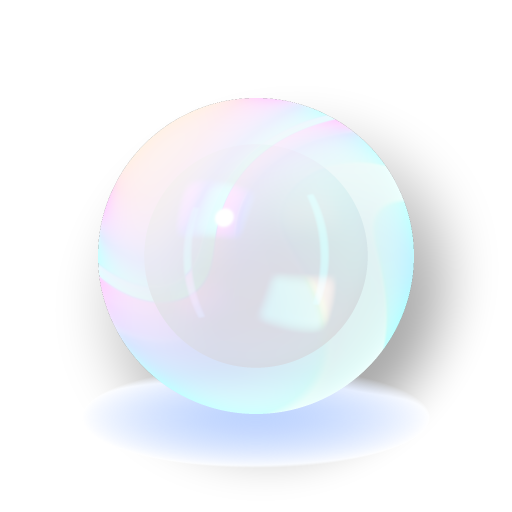
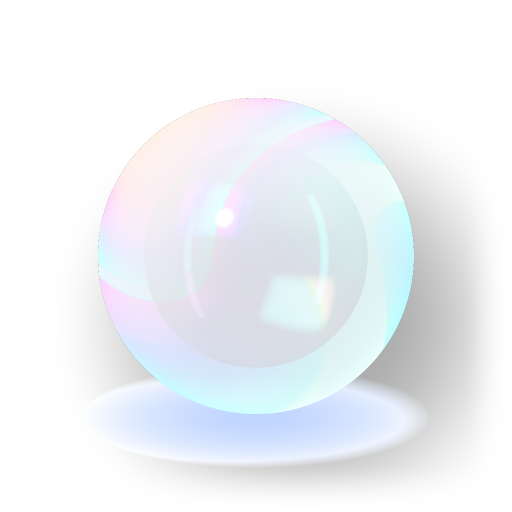
The mark is v20 to the pixel, larger, without the hairline
The owner: literally v20, bigger, no grey line. The mark is the tile with the page
for a face and no edge: the same bubble, shadow and glow everywhere, the top bar
too; the tile's edge would cut the shadow, so it fades over the last stretch of the
box instead. The ball takes the size named, the shadow and glow draw round it over
the page. The shadow switch and the plain stills go.

From the review: a theme switch repaints the canvas (a MutationObserver on the
html class), so a still mark never keeps the other theme's colours; a mark under
64 px no longer keeps the frame loop alive by itself, so the top bar's does not
run a shader on every page; the home-screen icon is opaque and square, as the phone
wants it; the face uses the shadow and glow functions rather than a second copy.

Changed region(s): [[0.4688, 0.5938, 0.9375, 0.9375]]

diff --git a/src/components/app/orb-glass.tsx b/src/components/app/orb-glass.tsx
@@ -21,10 +21,8 @@ type OrbGlassProps = {
     material: OrbGlassMaterial;
     /** What the orb sits on, which it mirrors in its lower half; the page's own theme by default. */
     surface?: "light" | "dark";
-    /** For a scene material: the mark, the scene with no tile, on the page. */
+    /** For a scene material: the mark, the tile with the page for a face and no edge. */
     mark?: boolean;
-    /** For the mark: without it, no shadow and no glow round the ball. */
-    shadow?: boolean;
     className?: string;
     style?: CSSProperties;
     /** A name makes it an image; without one it is decoration and a screen reader skips it. */
@@ -41,7 +39,6 @@ type Instance = {
     material: OrbGlassMaterial;
     surface?: "light" | "dark";
     mark: boolean;
-    shadow: boolean;
     inView: boolean;
     tilt: [number, number];
     goal: [number, number];
@@ -82,12 +79,11 @@ class Studio {
         gl.linkProgram(program);
         gl.useProgram(program);
         this.uniforms = Object.fromEntries(
-            ["uRes", "uMat", "uFloor", "uFloorMix", "uTilt", "uTime", "uFill", "uDark", "uScene", "uShadow"].map((name) => [
-                name,
-                gl.getUniformLocation(program, name),
-            ]),
+            ["uRes", "uMat", "uFloor", "uFloorMix", "uTilt", "uTime", "uFill", "uDark", "uScene"].map((name) => [name, gl.getUniformLocation(program, name)]),
         );
         window.addEventListener("pointermove", this.onPointer, { passive: true });
+        // A theme switch repaints, so a still mark never keeps the other theme's colours on a page that changed.
+        new MutationObserver(() => this.schedule()).observe(document.documentElement, { attributes: true, attributeFilter: ["class"] });
         document.addEventListener("visibilitychange", this.onVisibility);
         const media = matchMedia(REDUCED_MOTION);
         const update = () => {
@@ -164,8 +160,10 @@ class Studio {
             this.paint(it, (it.surface ?? (dark ? "dark" : "light")) === "dark");
         }
 
-        // A film flows on its own; glass only moves when the lights do.
-        const flowing = this.moving && [...this.instances].some((it) => it.inView && ORB_GLASS_FLOWS[orbGlassFamily(it.material)]);
+        // A film flows on its own; glass only moves when the lights do. A small mark (the top bar's)
+        // does not keep the loop alive by itself: at that size the flow is not seen, and the loop would
+        // run on every page for it. It still repaints whenever something else draws.
+        const flowing = this.moving && [...this.instances].some((it) => it.inView && it.size >= 64 && ORB_GLASS_FLOWS[orbGlassFamily(it.material)]);
         if ((flowing || settling) && !document.hidden) this.frame = requestAnimationFrame(this.draw);
     };
 
@@ -190,7 +188,6 @@ class Studio {
         gl.uniform1f(u.uFill, ORB_GLASS_FILL);
         gl.uniform1f(u.uDark, dark ? 1 : 0);
         gl.uniform1f(u.uScene, orbGlassIsScene(it.material) ? (it.mark ? 2 : 1) : 0);
-        gl.uniform1f(u.uShadow, it.shadow ? 1 : 0);
         gl.drawArrays(gl.TRIANGLES, 0, 3);
         it.context.imageSmoothingQuality = "high";
         it.context.clearRect(0, 0, px, px);
@@ -201,7 +198,7 @@ class Studio {
 // A glass orb, live. The GPU draws it (one shared context, see Studio), the lights lean toward the
 // pointer, and a bubble's film flows; both stop under reduced motion, out of view and in a hidden
 // tab. Where there is no WebGL2 the canvas stays blank and, if it has a name, still says it.
-export function OrbGlass({ size, material, surface, mark = false, shadow = true, className, style, label }: OrbGlassProps) {
+export function OrbGlass({ size, material, surface, mark = false, className, style, label }: OrbGlassProps) {
     const canvasRef = useRef<HTMLCanvasElement>(null);
 
     useEffect(() => {
@@ -209,7 +206,7 @@ export function OrbGlass({ size, material, surface, mark = false, shadow = true,
         const context = canvas?.getContext("2d");
         const studio = Studio.get();
         if (!canvas || !context || !studio) return;
-        const instance: Instance = { canvas, context, size, material, surface, mark, shadow, inView: false, tilt: [0, 0], goal: [0, 0] };
+        const instance: Instance = { canvas, context, size, material, surface, mark, inView: false, tilt: [0, 0], goal: [0, 0] };
         const observer = new IntersectionObserver(([entry]) => {
             instance.inView = entry.isIntersecting;
             if (instance.inView) studio.schedule();
@@ -220,7 +217,7 @@ export function OrbGlass({ size, material, surface, mark = false, shadow = true,
             observer.disconnect();
             studio.remove(instance);
         };
-    }, [size, material, surface, mark, shadow]);
+    }, [size, material, surface, mark]);
 
     const a11y = label ? { role: "img", "aria-label": label } : { "aria-hidden": true };
 

diff --git a/src/components/app/orb-mark.tsx b/src/components/app/orb-mark.tsx
@@ -3,10 +3,8 @@ import { cx } from "@/utils/cx";
 import { OrbGlass } from "./orb-glass";
 
 type OrbMarkProps = {
-    /** The ball's width and height in px. With a shadow, that reaches outside this box, over the page. */
+    /** The ball's width and height in px. The shadow and glow round it reach outside this box, over the page. */
     size: number;
-    /** The tile's shadow and glow round the ball. Off in the top bar and the sidebar, where 28 px has no room for them. */
-    shadow?: boolean;
     /** The page it sits on; the page's own theme by default. /orb's dark stage is a dark box on a light page, and says so. */
     surface?: "light" | "dark";
     className?: string;
@@ -17,45 +15,46 @@ type OrbMarkProps = {
 /** The material the mark is: v20 of the live scene on /orb, the owner's pick (2026-09-30). */
 export const ORB_MARK_MATERIAL = "scene20";
 
-/** The ball's share of the scene's box: the shadow and glow are drawn round it, as on the tile. */
+/** The ball's share of the tile's box; the shadow and glow are drawn round it, as on the tile. */
 const BALL = 0.62;
 
-// The Card Orb mark: v20's soap bubble, live, with no tile round it: the page is what shows through
-// the film, and the tile's shadow and glow lie on the page (dying away round the ball, so they have
-// no edge). The ball takes the box the size names; the shadow and glow are drawn outside it, over
-// the page, so the layout holds. Under the canvas sits a still of the same, one per theme, so the
-// server sends a picture, the mark is there before any script runs, and it stays where WebGL is
-// missing or motion is reduced; once the canvas draws it covers the still exactly.
-export function OrbMark({ size, shadow = true, surface, className, label }: OrbMarkProps) {
+// The Card Orb mark: v20, the app icon, live, with the page for a face and no edge round it: the
+// same bubble, shadow and glow, the owner's call. The ball takes the box the size names; the
+// shadow and glow are drawn outside it, over the page, so the layout holds. Under the canvas sits
+// a still of the same, one per theme, so the server sends a picture and the mark is there before
+// any script runs; it stays where WebGL2 is missing. Under reduced motion the canvas draws one
+// frame and stands still. The mark keeps moving with no pause control, as the landing page's orb
+// did (#626, the owner's call): WCAG 2.2.2 asks for one on motion past five seconds; reduced
+// motion is the only way to stop it. Do not add a stop or a button without asking.
+export function OrbMark({ size, surface, className, label }: OrbMarkProps) {
     const a11y = label ? { role: "img" as const, "aria-label": label } : { "aria-hidden": true as const };
     const box = Math.round(size / BALL);
     const offset = -(box - size) / 2;
     const place = { position: "absolute" as const, left: offset, top: offset, width: box, height: box };
-    const still = shadow ? "mark" : "mark-plain";
     return (
         <span className={cx("relative inline-block shrink-0", className)} style={{ width: size, height: size }} {...a11y}>
             {/* Which still shows follows the theme's class (globals.css, .orb-mark-still), not a dark: variant. */}
             <Image
-                src={`/orb-mark/${still}-light.png`}
+                src="/orb-mark/mark-light.png"
                 alt=""
-                width={box}
-                height={box}
+                width={512}
+                height={512}
                 className="orb-mark-still max-w-none"
                 style={place}
                 data-theme="light"
                 unoptimized
             />
             <Image
-                src={`/orb-mark/${still}-dark.png`}
+                src="/orb-mark/mark-dark.png"
                 alt=""
-                width={box}
-                height={box}
+                width={512}
+                height={512}
                 className="orb-mark-still max-w-none"
                 style={place}
                 data-theme="dark"
                 unoptimized
             />
-            <OrbGlass size={box} material={ORB_MARK_MATERIAL} mark shadow={shadow} surface={surface} style={place} />
+            <OrbGlass size={box} material={ORB_MARK_MATERIAL} mark surface={surface} style={place} />
         </span>
     );
 }

diff --git a/src/lib/orb-glass.ts b/src/lib/orb-glass.ts
@@ -194,8 +194,7 @@ vec4 darkBubble(vec3 refl, vec3 back, vec3 wash, vec3 n, float x, float kdif, fl
 // film is that face, with the ball's shadow on it. Lights and film as the study had them (v5 of
 // the still), with the film flowing in time and the lights following the pointer.
 // ---------------------------------------------------------------------------------------------
-uniform float uScene;    // 1 draws the tile scene instead of the bare ball; 2 the mark: the scene with no tile, on the page
-uniform float uShadow;   // for the mark: 1 keeps the tile's shadow and glow round the ball, 0 leaves them out
+uniform float uScene;    // 1 draws the tile scene instead of the bare ball; 2 the mark: the tile with the page for a face and no edge
 
 const float SCENE_SPAN = 1.62;   // half-width of the view in the ball's radii: the ball is 62 percent of the tile
 const float SCENE_BD = 1.4;      // the face sits this far behind the ball's centre
@@ -244,11 +243,9 @@ vec3 faceS(float x, float y) {
     bool dark = uDark > 0.5;
     float c = dark ? mix(0.016, 0.009, sm(-2.0, 2.0, -y)) : 1.0;
     vec3 col = dark ? vec3(c * 0.985, c * 0.985, c) : vec3(1.0);
-    float sd = length(vec2((x - 0.28) / 1.05, (y + 0.42)));
-    float sh = sm(1.55, 0.45, sd);
+    float sh = shadowS(x, y);
     col *= 1.0 - (dark ? 0.1 : 0.32) * sh;
-    float gd = length(vec2(x / 1.1, (y + 1.02) / 0.32));
-    float g = sm(1.0, 0.0, gd);
+    float g = glowS(x, y);
     col = col * vec3(1.0, 1.0 - 0.1 * g, 1.0) + vec3(0.25, 0.35, 0.6) * g * (dark ? 0.0 : 0.9);
     return col;
 }
@@ -299,12 +296,13 @@ vec4 sceneShade(vec2 fc) {
     if (!mark && length(q) > rad) return vec4(0.0);
     bool dark = uDark > 0.5;
     float rr = x * x + y * y;
-    // The tile's shadow is broad, and its face frames it; on the page it dies away round the ball
-    // instead, so it has no edge. The glow stays as it is.
-    float reach = mark ? sm(1.6, 1.0, length(vec2(x, y))) * uShadow : 1.0;
+    // The mark is the tile to the pixel, with the page for a face: the shadow darkens the page by
+    // alpha, the glow is light over it. The tile's edge would cut the shadow, so it fades over
+    // the last stretch of the box instead; the face is not drawn, since the page is the face.
     if (mark && rr >= 1.0) {
-        float sh = shadowS(x, y) * (dark ? 0.1 : 0.32) * reach;
-        vec3 glow = vec3(0.25, 0.35, 0.6) * glowS(x, y) * (dark ? 0.0 : 0.9) * uShadow;
+        float edge = sm(1.62, 1.3, max(abs(x), abs(y)));
+        float sh = shadowS(x, y) * (dark ? 0.1 : 0.32) * edge;
+        vec3 glow = vec3(0.25, 0.35, 0.6) * glowS(x, y) * (dark ? 0.0 : 0.9) * edge;
         return over(pow(glow, vec3(1.0 / 2.2)), sh);
     }
     if (rr >= 1.0) {
@@ -440,10 +438,10 @@ vec4 sceneShade(vec2 fc) {
     }
     if (mark) {
         // What shows through the film: the page, with the ball's shadow and glow on it as on the tile.
-        float g = glowS(pb.x, pb.y) * uShadow;
+        float g = glowS(pb.x, pb.y);
         vec3 page = dark ? vec3(0.012, 0.013, 0.018) : vec3(1.0);
         page = page * vec3(1.0, 1.0 - 0.1 * g, 1.0) + vec3(0.25, 0.35, 0.6) * g * (dark ? 0.0 : 0.9);
-        page *= 1.0 - (dark ? 0.1 : 0.32) * shadowS(pb.x, pb.y) * sm(1.6, 1.0, length(pb.xy)) * uShadow;
+        page *= 1.0 - (dark ? 0.1 : 0.32) * shadowS(pb.x, pb.y);
         return vec4(pow(softS(front + back + page * T + haze + vec3(sun)), vec3(1.0 / 2.2)), 1.0);
     }
     vec3 col = front + back + behind * T + haze + vec3(sun);

diff --git a/src/app/(public)/orb/page.tsx b/src/app/(public)/orb/page.tsx
@@ -103,11 +103,11 @@ export default function OrbStudyPage() {
                     <div className="flex flex-wrap items-center gap-6">
                         <div className="flex items-center gap-6 rounded-2xl bg-primary p-8 ring-1 ring-secondary ring-inset">
                             <OrbMark size={160} label="The mark, light" />
-                            <OrbMark size={28} shadow={false} />
+                            <OrbMark size={28} />
                         </div>
                         <div className="dark-mode flex items-center gap-6 rounded-2xl bg-primary p-8 ring-1 ring-secondary ring-inset">
                             <OrbMark size={160} surface="dark" label="The mark, dark" />
-                            <OrbMark size={28} surface="dark" shadow={false} />
+                            <OrbMark size={28} surface="dark" />
                         </div>
                     </div>
                 </section>

diff --git a/src/components/app/design-ours.tsx b/src/components/app/design-ours.tsx
@@ -215,11 +215,11 @@ export const ourSections: SectionSpec[] = [
                     <Cell label="OrbMark size={160}">
                         <OrbMark size={160} />
                     </Cell>
-                    <Cell label="OrbMark size={28} shadow={false}">
-                        <OrbMark size={28} shadow={false} />
+                    <Cell label="OrbMark size={28}">
+                        <OrbMark size={28} />
                     </Cell>
-                    <Cell label="OrbMark size={16} shadow={false}">
-                        <OrbMark size={16} shadow={false} />
+                    <Cell label="OrbMark size={16}">
+                        <OrbMark size={16} />
                     </Cell>
                 </Group>
                 <Group title="The icon" cols="wide">

diff --git a/src/components/application/app-navigation/sidebar-navigation/sidebar-section-dividers.tsx b/src/components/application/app-navigation/sidebar-navigation/sidebar-section-dividers.tsx
@@ -79,7 +79,7 @@ export const SidebarNavigationSectionDividers = ({
                         <div className="flex items-center justify-between gap-2">
                             {/* The rail's mark before the wordmark, so folding the sidebar keeps the mark in its place. */}
                             <Link href="/" className="flex items-center gap-3 text-lg font-semibold text-primary transition hover:opacity-70">
-                                <OrbMark size={28} shadow={false} />
+                                <OrbMark size={28} />
                                 Cardorb
                             </Link>
                             {headerAction}

diff --git a/src/components/app/public-top-bar.tsx b/src/components/app/public-top-bar.tsx
@@ -16,7 +16,7 @@ export function PublicTopBar({ menu }: { menu?: ReactNode }) {
     return (
         <header className="relative z-10 mx-auto flex w-full max-w-container items-center justify-between px-4 py-5 md:px-8">
             <Link href="/" className="flex items-center gap-2.5 text-lg font-semibold text-primary transition hover:opacity-70">
-                <OrbMark size={28} shadow={false} />
+                <OrbMark size={28} />
                 Cardorb
             </Link>
             {menu ?? (

diff --git a/src/components/app/sidebar-rail.tsx b/src/components/app/sidebar-rail.tsx
@@ -56,7 +56,7 @@ export function SidebarRail({
                         aria-label="Cardorb"
                         className="rounded-md outline-focus-ring transition hover:opacity-70 focus-visible:outline-2 focus-visible:outline-offset-2"
                     >
-                        <OrbMark size={28} shadow={false} />
+                        <OrbMark size={28} />
                     </Link>
                 </div>
 
